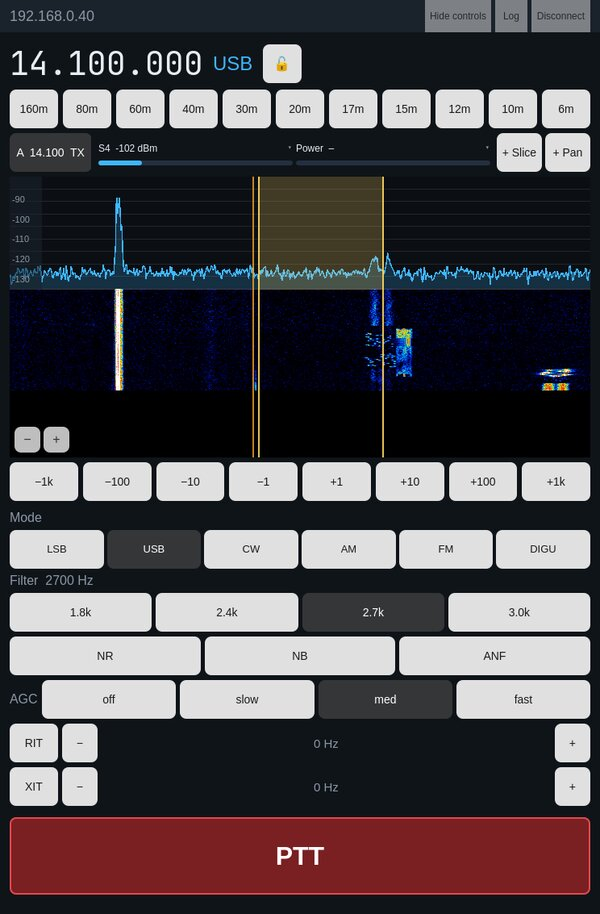
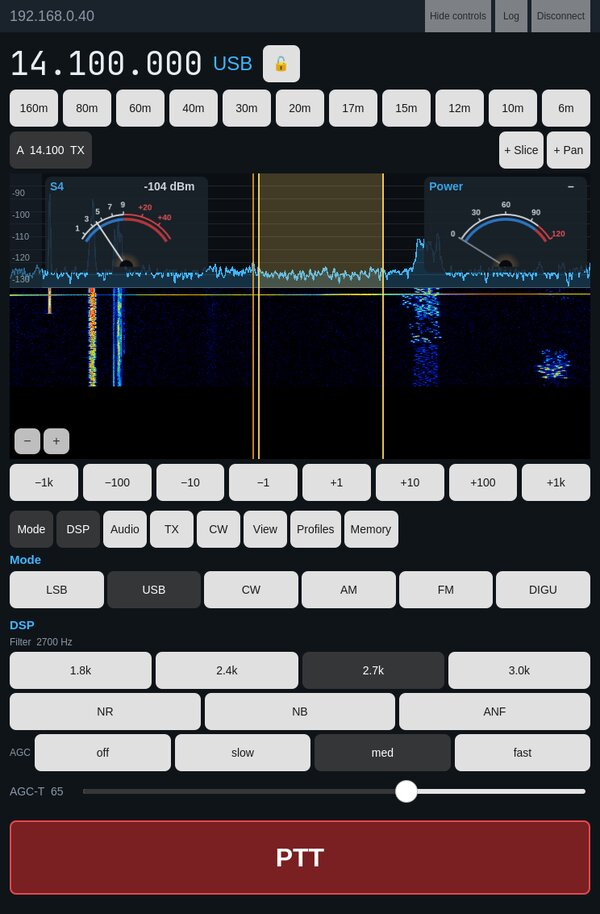
mobile: analog meter header without overlaps; screenshots refreshed
Checked all eight meters (S, Power, SWR, ALC, Mic, Comp, PA temp, Volts)
at iPad, iPhone portrait and iPhone landscape sizes against the FLEX:
- The value shows alone on the right ("-120 dB", "16 °C"); the reading's
  text repeated the name ("Mic -120 dB", "PA 16 °C"). PA temp is named
  "PA Temp". The value never runs into the name (width-limited, elided).
- The arc sits lower, so the top scale labels clear the header.
Dev: --meters <left>,<right>. README screenshots rendered against the FLEX.

Claude-Session: https://claude.ai/code/session_01KANojkzU64KoozGDbNDzRK

diff --git a/mobile/qml/AnalogGauge.qml b/mobile/qml/AnalogGauge.qml
@@ -67,7 +67,8 @@ Item {
             // The needle's pivot at the bottom middle, as on the AetherSDR
             // meter; the arc spans 116 degrees above it.
             const half = 58 * Math.PI / 180
-            const top = header + fontPx + 4
+            // Clear of the header text: the top scale labels sit above the arc.
+            const top = header + fontPx * 1.9 + 6
             const cx = w / 2
             const cy = h - 3
             const radius = Math.max(10, Math.min(cy - top, (w / 2 - fontPx * 2.2) / Math.sin(half)))
@@ -141,10 +142,20 @@ Item {
         }
     }
 
-    // Header: reading's S unit or kind (left, blue), title (middle), value (right).
+    // Header: the S unit or the meter's name (left, blue), title (middle,
+    // large faces), the value alone (right): the reading's text starts with
+    // the name ("PA 16 °C", "Mic -20 dB"), which repeated it.
+    readonly property string shortName: kind === "PA temp" ? qsTr("PA Temp") : kind
+    readonly property var parts: text.trim().split(/\s+/)
+    readonly property string valueText: {
+        if (!live) return "–"
+        if (kind === "S") return parts.slice(1).join(" ")
+        return /^[A-Za-z]+$/.test(parts[0]) ? parts.slice(1).join(" ") : parts.join(" ")
+    }
     Text {
+        id: nameText
         x: 2; y: 0
-        text: gauge.kind === "S" && gauge.live ? gauge.text.trim().split(/\s+/)[0] : gauge.kind
+        text: gauge.kind === "S" && gauge.live ? gauge.parts[0] : gauge.shortName
         color: "#3fb6ff"
         font.pixelSize: Math.max(10, Math.round(12 * gauge.unit))
         font.bold: true
@@ -161,7 +172,11 @@ Item {
         anchors.right: parent.right
         anchors.rightMargin: 12
         y: 0
-        text: gauge.live ? (gauge.kind === "S" ? gauge.text.trim().split(/\s+/).slice(1).join(" ") : gauge.text) : "–"
+        // Never over the name: at most the space left of it.
+        width: Math.min(implicitWidth, gauge.width - nameText.implicitWidth - 20)
+        horizontalAlignment: Text.AlignRight
+        elide: Text.ElideLeft
+        text: gauge.valueText
         color: gauge.live && gauge.value >= gauge.red ? Theme.transmit : Theme.text
         font.pixelSize: Math.max(10, Math.round(12 * gauge.unit))
         font.bold: true

diff --git a/mobile/src/main.cpp b/mobile/src/main.cpp
@@ -60,6 +60,9 @@ int main(int argc, char* argv[])
     const QCommandLineOption analogMetersOption(QStringLiteral("analog-meters"),
         QStringLiteral("Meter faces: on (analog) or off (bars) (remembered)."), QStringLiteral("state"));
     parser.addOption(analogMetersOption);
+    const QCommandLineOption metersOption(QStringLiteral("meters"),
+        QStringLiteral("Receive meter choices <left>,<right>, e.g. S,Volts (remembered)."), QStringLiteral("kinds"));
+    parser.addOption(metersOption);
     const QCommandLineOption devLinkOption(QStringLiteral("devlink"),
         QStringLiteral("Developer link to <host>, or off (remembered)."), QStringLiteral("host"));
     parser.addOption(devLinkOption);
@@ -129,6 +132,13 @@ int main(int argc, char* argv[])
         }
     }
 
+    if (parser.isSet(metersOption)) {
+        const QStringList kinds = parser.value(metersOption).split(QLatin1Char(','));
+        if (kinds.size() == 2) {
+            engine.setMeterLeft(kinds.at(0));
+            engine.setMeterRight(kinds.at(1));
+        }
+    }
     if (parser.isSet(analogMetersOption)) {
         engine.setAnalogMeters(parser.value(analogMetersOption) == QLatin1String("on"));
     }
